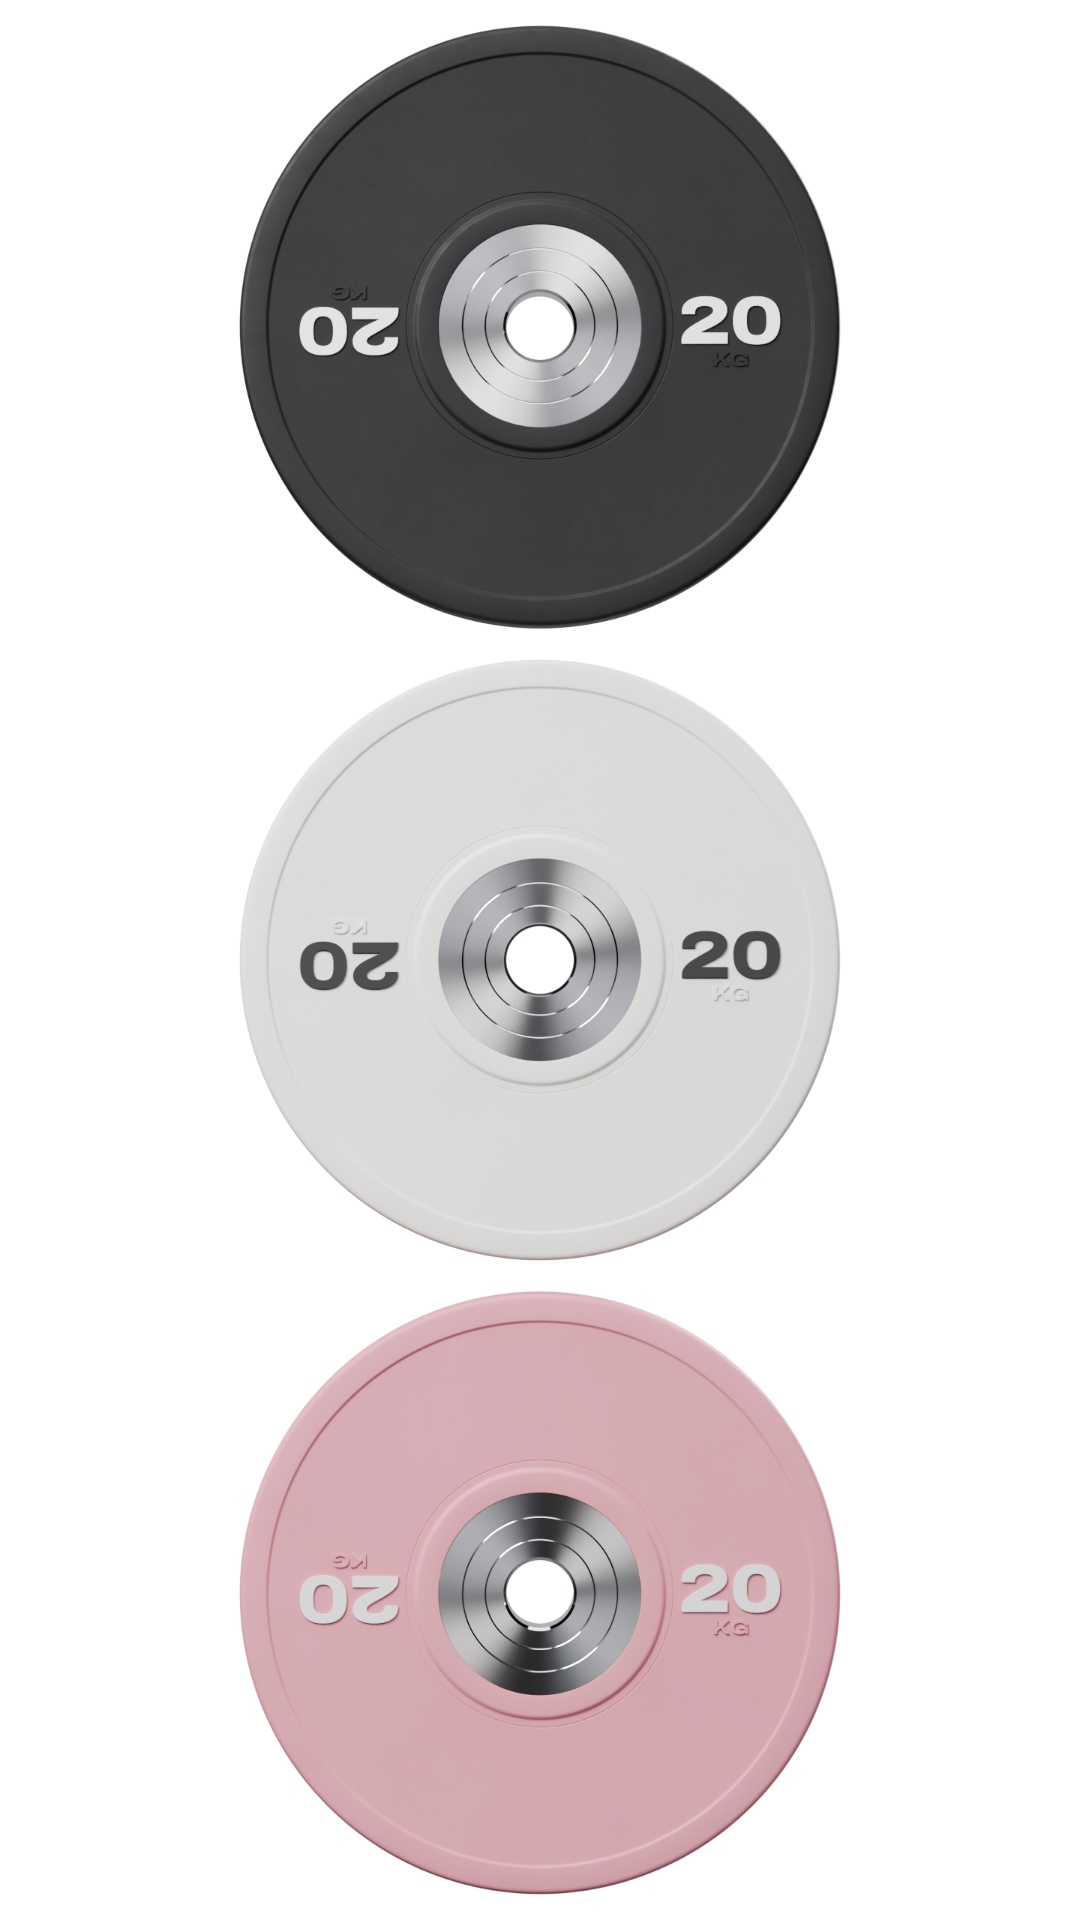
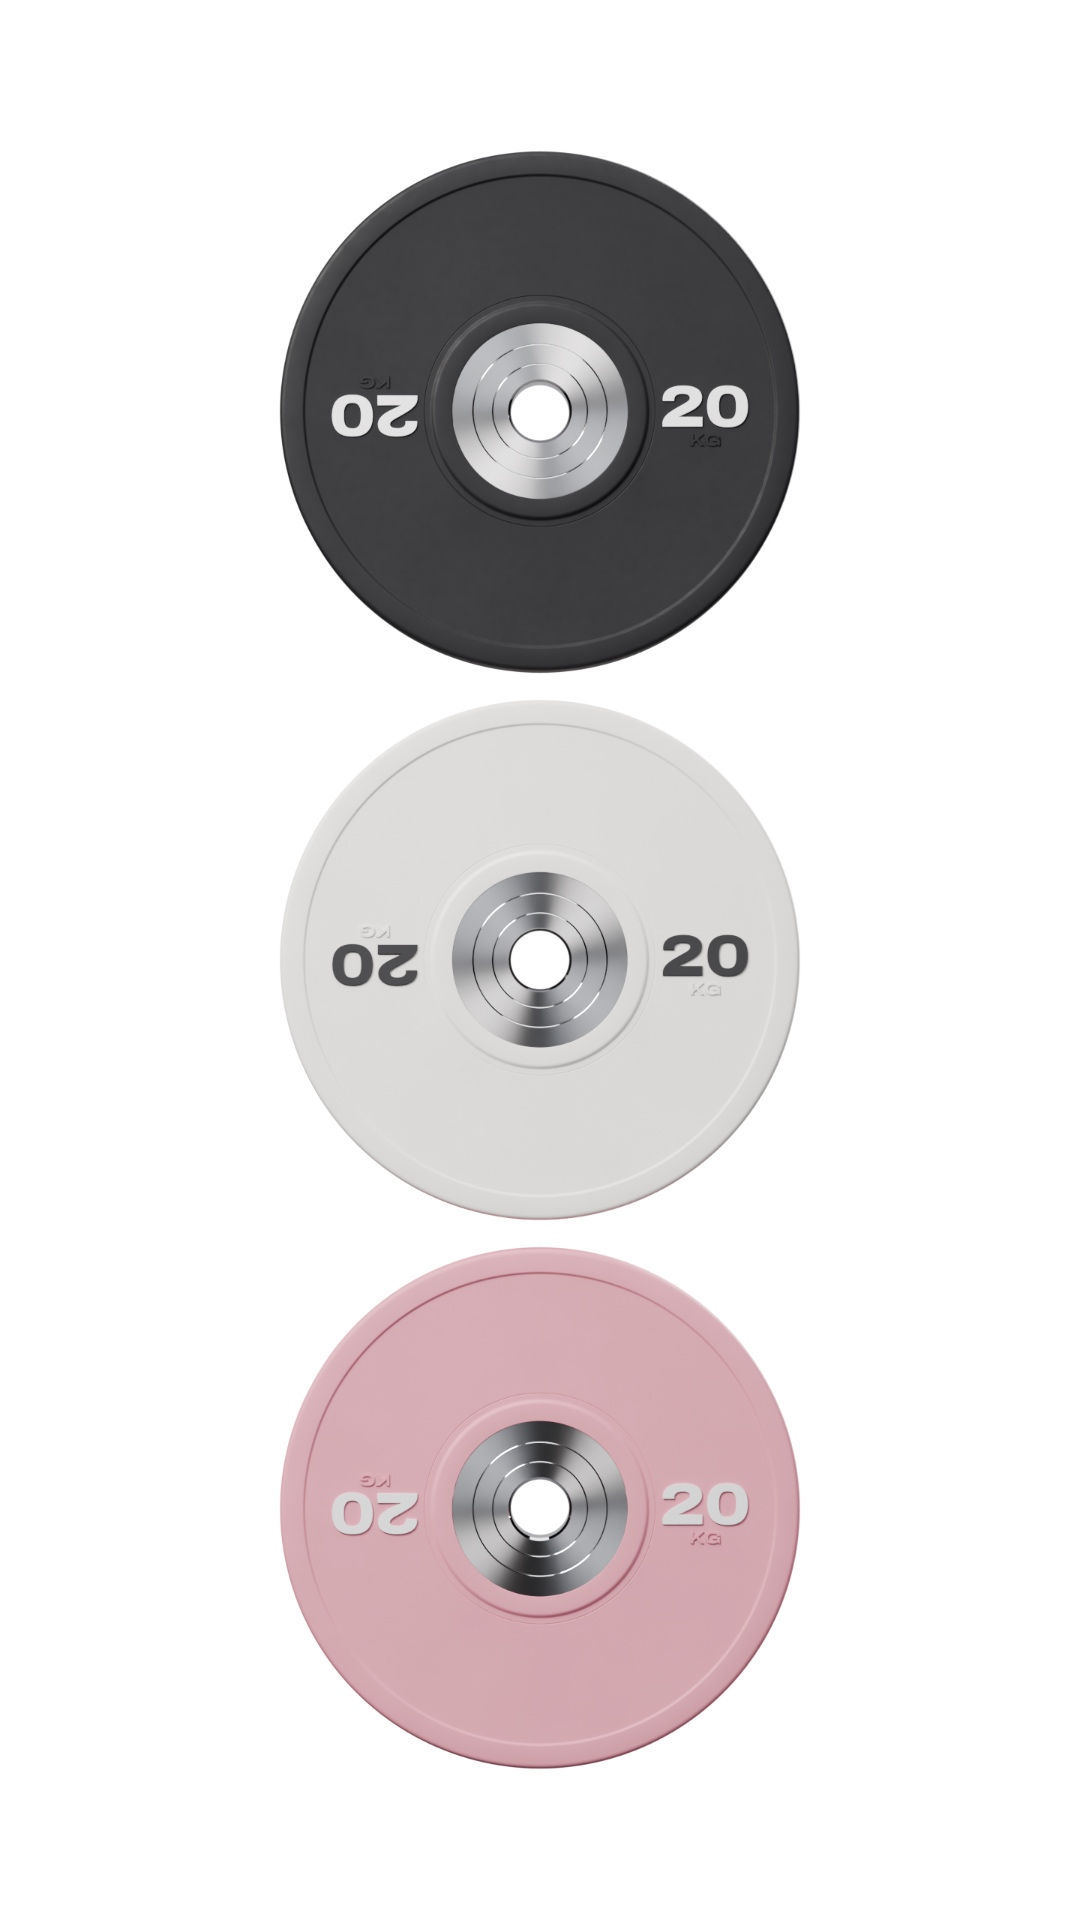
Story 6 : les disques un peu plus petits
- La colonne occupe 84 % de la hauteur (au lieu de 97 %) : les disques
  ne touchent plus les bords haut et bas.

Claude-Session: https://claude.ai/code/session_01D9n9ZZi5fk6puDFh7TyVoC

diff --git a/3d/outils/blender/stories.py b/3d/outils/blender/stories.py
@@ -266,7 +266,7 @@ def s6():
     for i, c in enumerate(('noir', 'blanc', 'rose')):
         pose(plate(c, name='d%d' % i), (0.0, 0.0, (1 - i) * (2 * PR + gap)), (0, 0, 0))     # the face towards the camera
     story()
-    height = (3 * 2 * PR + 2 * gap) / 0.97                   # the column fills 97 % of the height
+    height = (3 * 2 * PR + 2 * gap) / 0.84                   # the column fills 84 % of the height (97 % touched the edges)
     dist = height / 2 / (18 / 200)                           # lens 200 (almost flat), the 36 mm side is the height
     camera((0.0, -dist, 0.0), (0.0, 0.0, 0.0), lens=200, fstop=32)
     return (0.0, 0.0, 0.0), 1.0, None
